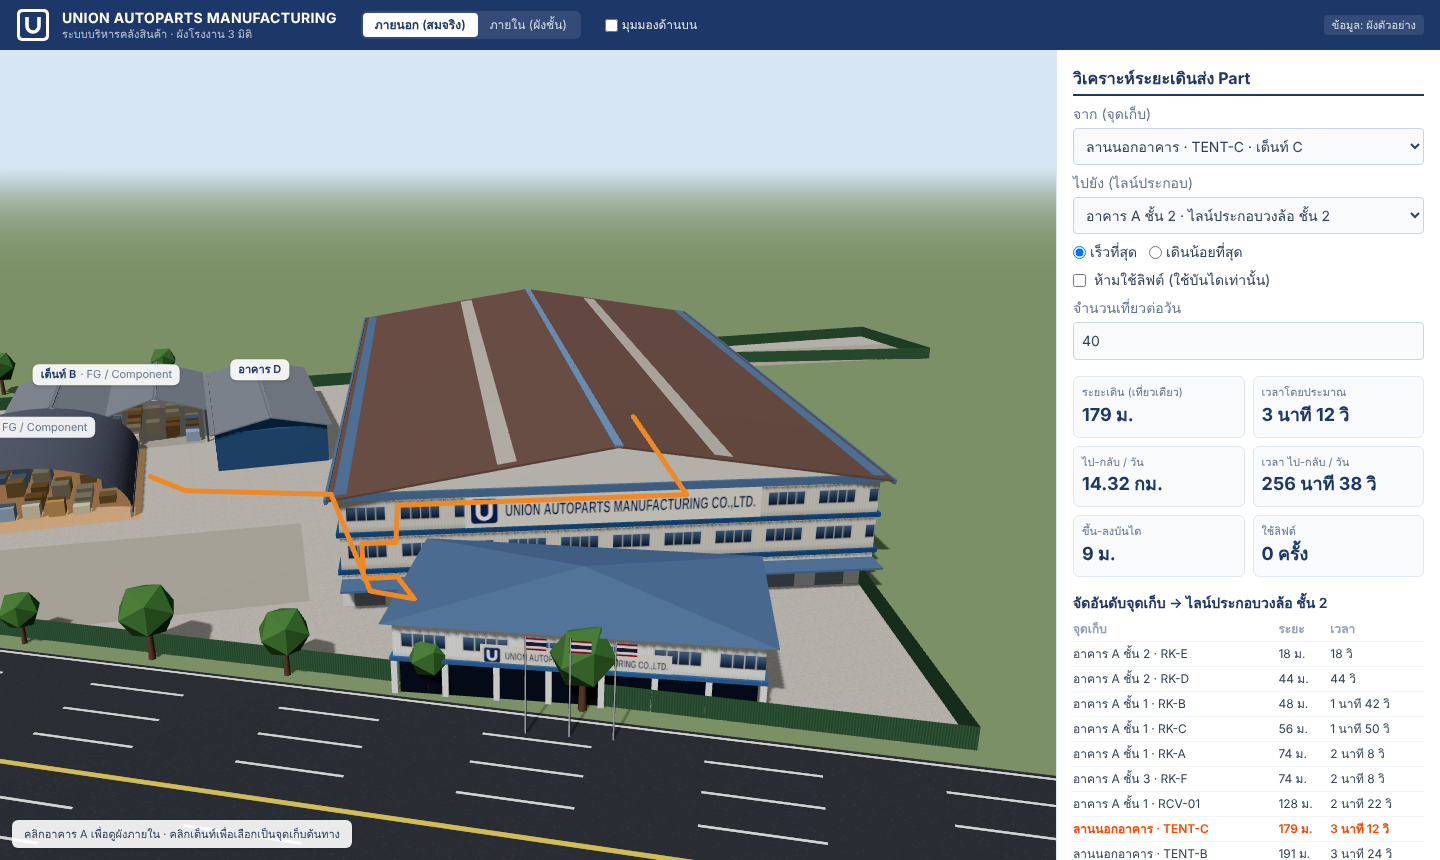
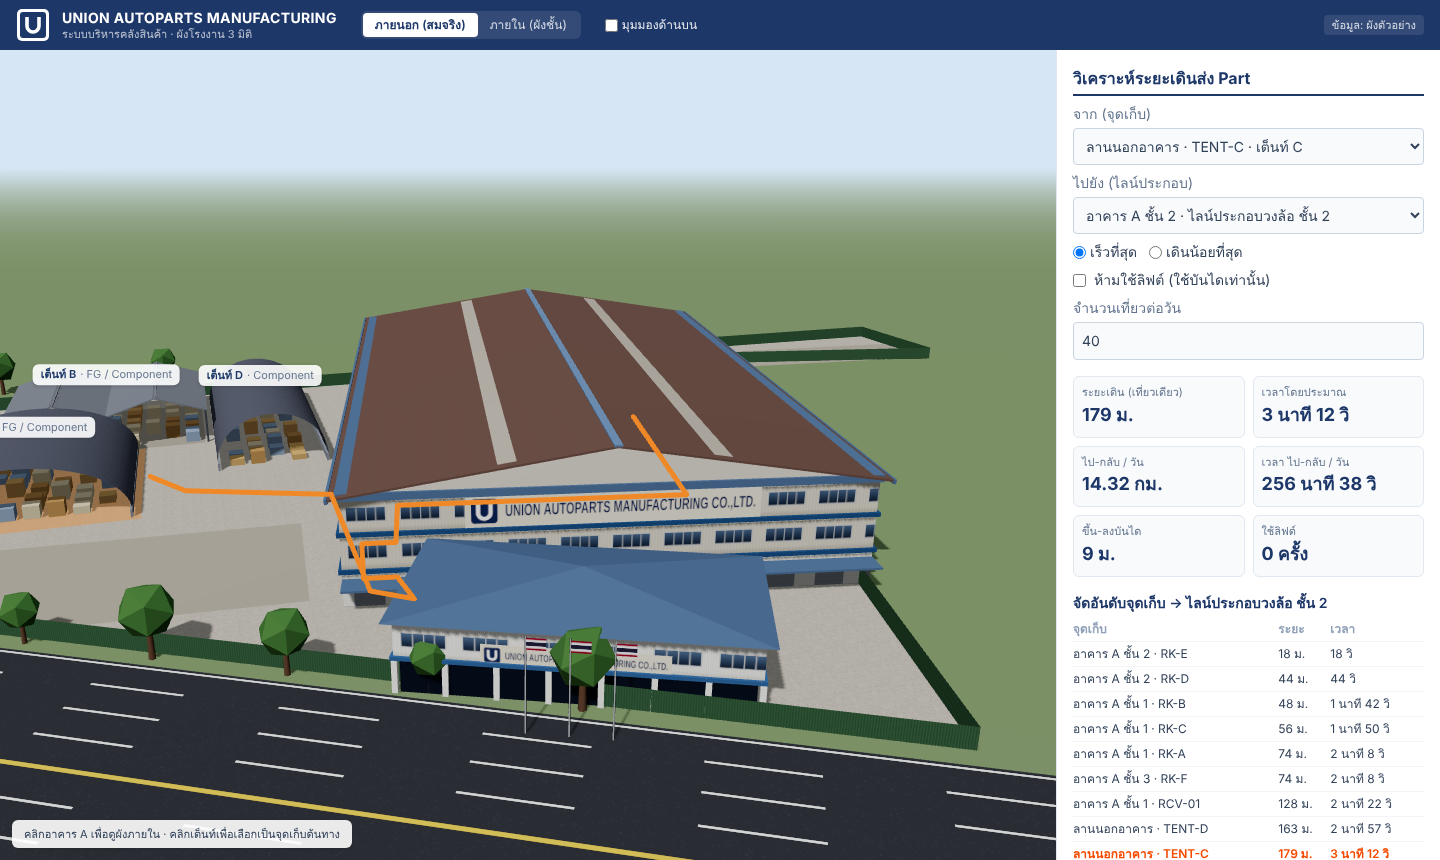
Model area D as occasional component tent
- Area D is a tent (arch roof) used for components from time to time,
  not a warehouse: now a selectable source zone TENT-D with yard access
- Regenerated seed, docs and screenshot; test covers routing from tent D

Claude-Session: https://claude.ai/code/session_01FgApvZZvt9QfN4uEcawHPG

Changed region(s): [[0.125, 0.393, 0.25, 0.5442], [0.75, 0.9372, 0.8438, 1.0], [0.875, 0.9372, 0.9688, 0.9977]]

diff --git a/web/src/data/factoryLayout.ts b/web/src/data/factoryLayout.ts
@@ -6,6 +6,7 @@ import type { FactoryLayout, Floor, Landmark, NavEdge, NavNode, Zone } from '../
  * ที่มา: ภาพดาวเทียม docs/site/site-zones-draft.png
  * สเกลประมาณ 0.2 ม./พิกเซล (เทียบจากขนาดรถยนต์/รถบรรทุกบนถนน) ⇒ คลาดเคลื่อนได้ ±20%
  * ยืนยันกับเจ้าของแล้ว: อาคาร A = อาคารหลัก 3 ชั้น, B และ C = เต็นท์เก็บ FG/Component,
+ *                   D = เต็นท์ที่ใช้วาง Component เป็นบางครั้ง,
  *                   ทางเดินจากเต็นท์เข้าอาคาร A ใช้ประตูด้านหน้า (ฝั่งถนน)
  * ⚠ สมมติฐาน (รอยืนยันหน้างาน): ตำแหน่งประตู, บันได, ลิฟต์, rack และไลน์ประกอบภายในอาคาร A
  *
@@ -64,6 +65,7 @@ const yardNodes: NavNode[] = [
   { id: 'F1-DOOR', floorId: 'F1', x: 8, z: 98 }, // สมมติ: ประตูหน้าอาคาร A ฝั่งซ้าย
   { id: 'Y-B', floorId: 'YARD', x: 62, z: 51 }, // หน้าเต็นท์ B
   { id: 'Y-C', floorId: 'YARD', x: 58, z: 64 }, // หน้าเต็นท์ C
+  { id: 'Y-D', floorId: 'YARD', x: 76.5, z: 66 }, // ปลายด้านหน้าเต็นท์ D
   { id: 'Y-J1', floorId: 'YARD', x: 63, z: 72 },
   { id: 'Y-J2', floorId: 'YARD', x: 83, z: 80 }, // ทางเดินระหว่างพื้นที่ G กับอาคาร A
   { id: 'Y-J3', floorId: 'YARD', x: 83, z: 113 },
@@ -75,6 +77,8 @@ const yardEdges: NavEdge[] = [
   { from: 'Y-J2', to: 'Y-J1', mode: 'walk' },
   { from: 'Y-J1', to: 'Y-B', mode: 'walk' },
   { from: 'Y-J1', to: 'Y-C', mode: 'walk' },
+  { from: 'Y-D', to: 'Y-J1', mode: 'walk' },
+  { from: 'Y-D', to: 'Y-J2', mode: 'walk' },
 ]
 
 const coreZones: Zone[] = buildingFloors.flatMap((f) => [
@@ -99,6 +103,7 @@ const zones: Zone[] = [
   // ลานนอก — เต็นท์ (พิกัด site)
   { id: 'TENT-B', code: 'TENT-B', name: 'เต็นท์ B', floorId: 'YARD', kind: 'tent', x: 36, z: 23, width: 31, depth: 25, accessNodeId: 'Y-B', stores: ['FG', 'Component'] },
   { id: 'TENT-C', code: 'TENT-C', name: 'เต็นท์ C', floorId: 'YARD', kind: 'tent', x: 27, z: 49, width: 29, depth: 30, accessNodeId: 'Y-C', stores: ['FG', 'Component'] },
+  { id: 'TENT-D', code: 'TENT-D', name: 'เต็นท์ D', floorId: 'YARD', kind: 'tent', x: 68, z: 25, width: 17, depth: 38, accessNodeId: 'Y-D', stores: ['Component'] },
 ]
 
 // เส้นขอบที่ดินตามเส้นสีแดงในภาพดาวเทียม
@@ -108,7 +113,6 @@ const boundary: [number, number][] = [
 
 const landmarks: Landmark[] = [
   { id: 'E', name: 'สำนักงานใหญ่ (E)', kind: 'office', x: 101.4, z: 134, width: 35, depth: 18.6, rotation: 25.4, height: 8 },
-  { id: 'D', name: 'อาคาร D', kind: 'building', x: 76.5, z: 44, width: 17, depth: 38, rotation: 0, height: 6 },
   { id: 'G', name: 'พื้นที่ G', kind: 'area', x: 44, z: 98, width: 66, depth: 24, rotation: 4, height: 0.2 },
   { id: 'F', name: 'พื้นที่ F', kind: 'area', x: 174, z: 21, width: 92, depth: 14, rotation: 6, height: 0.2 },
   { id: 'ROAD', name: 'ถ.ปู่เจ้าสมิงพราย', kind: 'road', x: 55.4, z: 140.3, width: 260, depth: 35, rotation: 30.2, height: 0.05 },

diff --git a/web/src/data/siteAppearance.ts b/web/src/data/siteAppearance.ts
@@ -5,6 +5,7 @@
 export const TENT_STYLE: Record<string, 'twin-gable' | 'arch'> = {
   'TENT-B': 'twin-gable', // หลังคาเมทัลชีทสีเทา 2 จั่ว (ภาพดาวเทียม)
   'TENT-C': 'arch', // หลังคาโค้งสีเข้ม
+  'TENT-D': 'arch', // หลังคาโค้งแคบยาว ข้างเต็นท์ B
 }
 
 /** อาคารที่วาดเป็นโมเดลอาคารหลัก (ระบุด้วยชั้นแรกของอาคาร) */

diff --git a/web/src/lib/pathfinding.test.ts b/web/src/lib/pathfinding.test.ts
@@ -36,6 +36,12 @@ describe('findRoute', () => {
     expect(r.floorChanges).toBe(1)
   })
 
+  it('reaches tent D (occasional component storage) from the yard', () => {
+    const r = findRoute(sampleLayout, zone('TENT-D').accessNodeId, zone('F3-ASM').accessNodeId)!
+    expect(r.nodes.some((n) => n.id === 'F1-DOOR')).toBe(true)
+    expect(r.walkDistance).toBeGreaterThan(0)
+  })
+
   it('keeps distances correct on a rotated building', () => {
     const layout: FactoryLayout = {
       siteName: 't',

diff --git a/README.md b/README.md
@@ -43,10 +43,10 @@ npm run build
 ## ฟีเจอร์ตอนนี้
 
 - **โหมดภายนอก (สมจริง)**: โมเดลอาคารตามภาพถ่ายจริง — อาคาร A ผนังเมทัลชีทสีครีม แถบฟ้าเหล็กคั่นชั้น หลังคาจั่วสีน้ำตาลสนิม
-  ป้ายชื่อบริษัท, สำนักงานใหญ่พร้อมเสาธง, เต็นท์ B (จั่วคู่) / C (ทรงโค้ง), อาคาร D, ถนน, รั้วสีเขียว, ต้นไม้
+  ป้ายชื่อบริษัท, สำนักงานใหญ่พร้อมเสาธง, เต็นท์ B (จั่วคู่) / C และ D (ทรงโค้ง), ถนน, รั้วสีเขียว, ต้นไม้
 - **โหมดภายใน (ผังชั้น)**: เปิดดูพื้นแต่ละชั้นและตำแหน่ง rack/ไลน์ประกอบ (คลิกอาคาร A ในโหมดภายนอกเพื่อเข้าไปดู)
 - ธีมองค์กรสีกรมท่า-ขาว โทนสีทั้งหมดอยู่ที่ `web/src/data/brand.ts` (แก้ที่เดียวเมื่อได้รหัสสี CI/โลโก้ทางการ)
-- ผัง site ตามพื้นที่จริง: ขอบที่ดิน, อาคาร A (3 ชั้น วางเอียงตามแนวจริง), เต็นท์ B/C, สำนักงาน E, ถนน
+- ผัง site ตามพื้นที่จริง: ขอบที่ดิน, อาคาร A (3 ชั้น วางเอียงตามแนวจริง), เต็นท์ B/C/D, สำนักงาน E, ถนน
 - หมุน/ซูมได้, เลือกซ่อนหรือแสดงทีละชั้น, ปรับระยะห่างระหว่างชั้นได้ และมีมุมมองด้านบนไว้เทียบกับภาพดาวเทียม
 - คลิก rack/เต็นท์ เพื่อเลือกต้นทาง และคลิกไลน์ประกอบเพื่อเลือกปลายทาง ระบบจะวาดเส้นทางเดินให้
 - คำนวณระยะเดิน, เวลา, ระยะเดินบนบันได, จำนวนครั้งที่ใช้ลิฟต์ และระยะเดินรวมต่อวัน

diff --git a/docs/requirements.md b/docs/requirements.md
@@ -22,7 +22,8 @@
 | A | อาคารหลัก 3 ชั้น มีไลน์ประกอบวงล้อที่ชั้น 2 และชั้น 3 | ✅ ยืนยันแล้ว |
 | B, C | เต็นท์เก็บ FG รอขาย และใช้เก็บ Component ด้วย | ✅ ยืนยันแล้ว |
 | E | สำนักงานใหญ่ (ติดถนน) | ✅ จากหมุดบนแผนที่ |
-| D, F, G | ยังไม่ทราบการใช้งาน (แสดงเป็นสิ่งประกอบฉากเท่านั้น) | [ ] |
+| D | เต็นท์ที่ใช้วาง Component เป็นบางครั้ง | ✅ ยืนยันแล้ว |
+| F, G | ยังไม่ทราบการใช้งาน (แสดงเป็นพื้นที่โล่งเท่านั้น) | [ ] |
 | เส้นทางจากเต็นท์เข้า A | เดินผ่านลาน → ทางเดินข้างอาคาร A → ประตูด้านหน้า (ฝั่งถนน) | ✅ ยืนยันแล้ว |
 
 ### 2.2 ค่าประมาณ (ต้องยืนยันหน้างาน)
@@ -31,7 +32,7 @@
 |---|---|---|
 | สเกลภาพดาวเทียม | ~0.2 ม./พิกเซล (เทียบจากขนาดรถ) คลาดเคลื่อนได้ ±20% | [ ] |
 | ขนาดอาคาร A | ~62 × 98 ม. วางเอียงประมาณ 12° | [ ] |
-| ขนาดเต็นท์ | B ~31 × 25 ม., C ~29 × 30 ม. | [ ] |
+| ขนาดเต็นท์ | B ~31 × 25 ม., C ~29 × 30 ม., D ~17 × 38 ม. | [ ] |
 | ความสูงแต่ละชั้น | 4.5 ม. | [ ] |
 | ประตูหน้าอาคาร A | ด้านหน้าฝั่งซ้าย (ใกล้ทางเดินข้างอาคาร) | [ ] |
 | บันได / ลิฟต์ขนของ | บันไดอยู่ด้านหน้าซ้าย, ลิฟต์อยู่กลางอาคารฝั่งขวา, ลิฟต์อนุญาตให้คนขึ้นหรือไม่? | [ ] |

diff --git a/docs/architecture.md b/docs/architecture.md
@@ -38,7 +38,7 @@
 | `web/src/data/brand.ts` | โทนสีองค์กรและวัสดุ (สกัดจากภาพถ่ายหน้าโรงงานและภาพดาวเทียม) |
 | `web/src/data/siteAppearance.ts` | กำหนดว่าพื้นที่ไหนใช้โมเดลแบบไหน (เต็นท์จั่วคู่ / ทรงโค้ง), ตำแหน่งต้นไม้ |
 | `web/src/components/models/BuildingA.tsx` | อาคารหลัก: ผนังลอน+หน้าต่าง, แถบคั่นชั้น, หลังคาจั่ว, ป้ายบริษัท |
-| `web/src/components/models/SiteModels.tsx` | สำนักงาน, โกดัง, เต็นท์, ถนน, รั้ว, ต้นไม้, พาเลทสินค้า |
+| `web/src/components/models/SiteModels.tsx` | สำนักงาน, เต็นท์, ถนน, รั้ว, ต้นไม้, พาเลทสินค้า |
 | `web/src/components/models/textures.ts` | texture ที่วาดด้วย canvas (เมทัลชีท, หน้าต่าง, ป้าย, ถนน, ธงชาติ) |
 
 ถ้าต้องการรายละเอียดสูงกว่านี้ (เช่น ปั้นใน Blender จากรูปถ่ายรอบอาคาร) สามารถ export เป็น glTF/GLB แล้วโหลดแทนโมเดลในไฟล์เหล่านี้ได้
